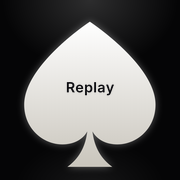
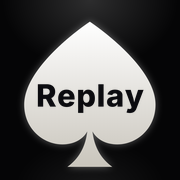
Icône : « Replay » en gros, lisible de loin, de gauche à droite dans le pique
Texte noir en Inter ExtraBold sur ~60 % de la largeur (lisible à 60 px). Paramètre ?v=2 pour forcer le rafraîchissement sur iPhone.

Claude-Session: https://claude.ai/code/session_01WqVHvcmi2EZQfJCMrkDQXG

Changed region(s): [[0.1944, 0.4444, 0.8056, 0.6389]]

diff --git a/index.html b/index.html
@@ -9,8 +9,8 @@
 <title>CariocAce Replay</title>
 <link rel="stylesheet" href="https://fonts.googleapis.com/css2?family=IBM+Plex+Mono:wght@400;500&family=Manrope:wght@400;500;600;700&family=Syne:wght@600;700&display=swap">
 <style>:root{color-scheme:dark;padding-top:env(safe-area-inset-top,0px);padding-bottom:env(safe-area-inset-bottom,0px)}body{margin:0;font:14px system-ui,sans-serif}img{max-width:100%}[hidden]{display:none!important}</style>
-<link rel="icon" type="image/png" href="icon-192.png">
-<link rel="apple-touch-icon" href="icon-180.png">
+<link rel="icon" type="image/png" href="icon-192.png?v=2">
+<link rel="apple-touch-icon" href="icon-180.png?v=2">
 <link rel="manifest" href="manifest.webmanifest">
 </head>
 <body>

diff --git a/tools/build.py b/tools/build.py
@@ -60,7 +60,7 @@ def build_site():
     s = s.replace('const NTFY_TOPIC = null;', 'const NTFY_TOPIC = ' + lit(cfg['ntfy_topic']) + ';')
     out = ROOT / 'index.html'
     # icône de l'écran d'accueil (iPhone) et manifeste : seulement pour la page d'accueil
-    extra = ('<link rel="icon" type="image/png" href="icon-192.png">\n<link rel="apple-touch-icon" href="icon-180.png">\n'
+    extra = ('<link rel="icon" type="image/png" href="icon-192.png?v=2">\n<link rel="apple-touch-icon" href="icon-180.png?v=2">\n'
              '<link rel="manifest" href="manifest.webmanifest">\n')
     out.write_text(wrap(s, extra), encoding='utf-8')
     print('ok', out.relative_to(ROOT))
